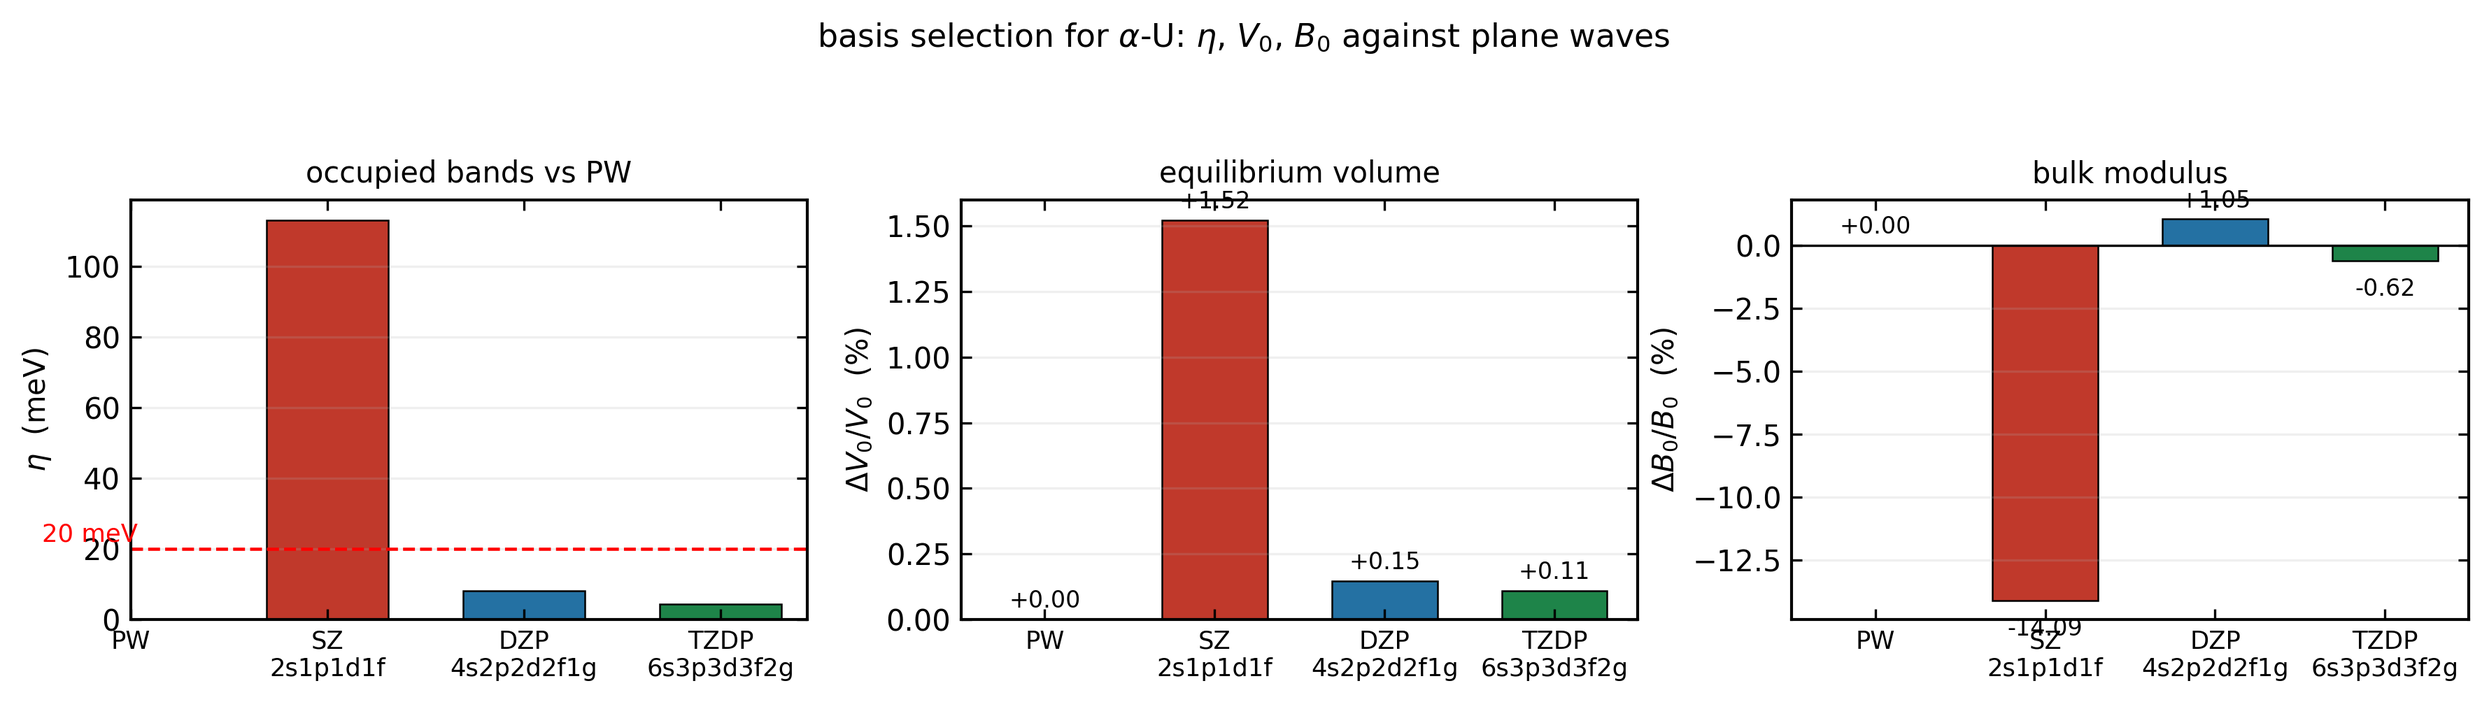
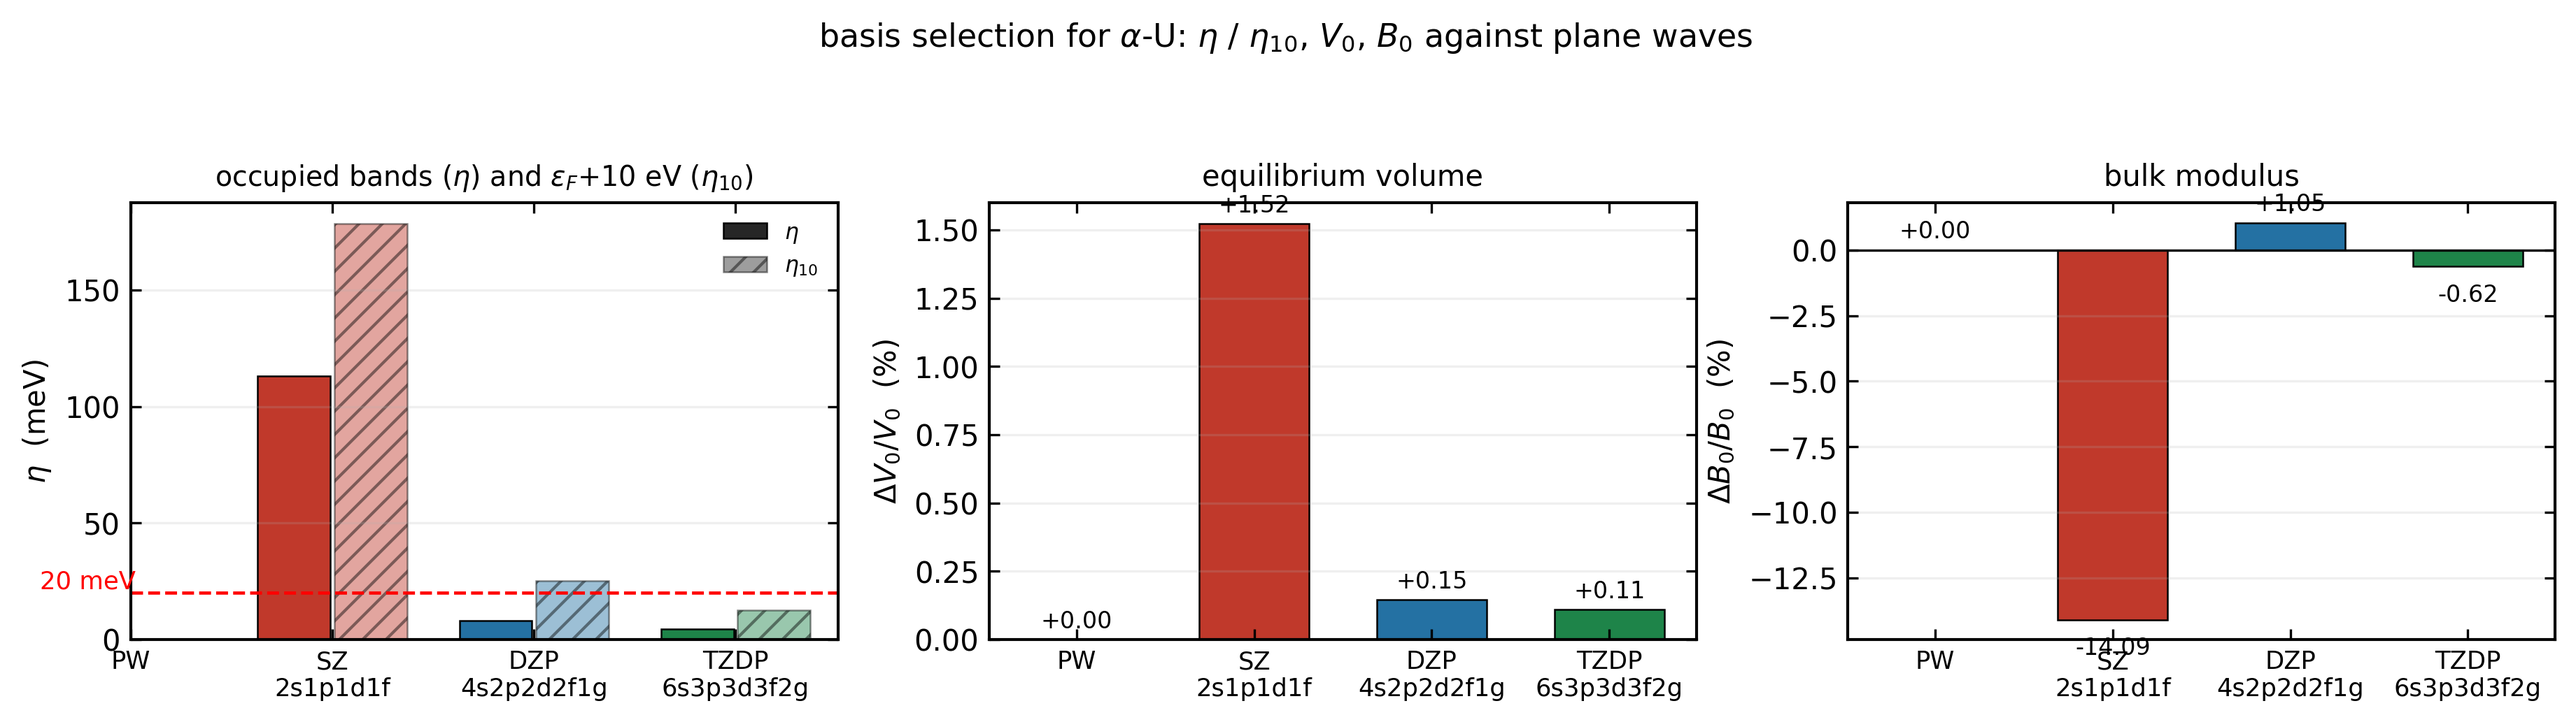
1-ecutwfc: put the figure in the stage directory; 3-eos: add eta_10
- 1-ecutwfc/plot.py wrote to demo/; it now lands next to the stage.
- 3-eos/analyze.py reads eta10_analysis.json and draws eta and eta_10 as grouped
  bars, carrying the validity flag: eta_10 is only meaningful when the spectrum
  reaches eps_F + 10 eV, which the EOS runs (80 bands, 25.3 eV above eps_F) do
  but the 38-band band-analysis runs do not.

diff --git a/3-eos/analyze.py b/3-eos/analyze.py
@@ -50,12 +50,24 @@ def read_eos() -> dict:
     return out
 
 
-def read_eta() -> dict:
+def read_eta() -> tuple[dict, dict, bool]:
+    """-> (eta, eta10, eta10_valid).
+
+    eta comes from `band_analysis.json`; eta_10 from `eta10_analysis.json`, which also
+    records whether the spectrum reaches eps_F + 10 eV.  When it does not, eta_10
+    degenerates into an unweighted RMS over all bands and must not be quoted -- the flag
+    is carried through to the figure.
+    """
+    eta, eta10, valid = {}, {}, True
     path = REPORTS / "band_analysis.json"
-    if not path.is_file():
-        return {}
-    data = json.loads(path.read_text())
-    return {r["basis"]: r["eta_meV"] for r in data.get("rows", [])}
+    if path.is_file():
+        eta = {r["basis"]: r["eta_meV"] for r in json.loads(path.read_text()).get("rows", [])}
+    path = REPORTS / "eta10_analysis.json"
+    if path.is_file():
+        data = json.loads(path.read_text())
+        eta10 = {r["basis"]: r["eta10_meV"] for r in data.get("rows", [])}
+        valid = bool(data.get("valid", True))
+    return eta, eta10, valid
 
 
 def main() -> int:
@@ -69,14 +81,14 @@ def main() -> int:
     if args.report_dir:
         REPORTS = Path(args.report_dir).resolve()
 
-    eos, eta = read_eos(), read_eta()
+    eos, (eta, eta10, eta10_ok) = read_eos(), read_eta()
     if "pw" not in eos:
         print("no PW EOS report")
         return 2
     pw = eos["pw"]
 
     print(f"{'basis':<6}{'V0/atom':>10}{'dV0 (%)':>10}{'B0 (GPa)':>11}{'dB0 (%)':>10}"
-          f"{'BP':>7}{'E0/atom':>12}{'dE (meV)':>10}{'eta (meV)':>11}")
+          f"{'BP':>7}{'E0/atom':>12}{'dE (meV)':>10}{'eta (meV)':>11}{'eta10 (meV)':>13}")
     for b in BASES:
         if b not in eos:
             continue
@@ -86,24 +98,32 @@ def main() -> int:
         e0 = e["E0"] / NATOMS
         dE = (e["E0"] - pw["E0"]) / NATOMS * 1000
         print(f"{b:<6}{e['V0_atom']:>10.4f}{dV:>+10.3f}{e['B0']:>11.2f}{dB:>+10.2f}"
-              f"{e['BP']:>7.2f}{e0:>12.4f}{dE:>10.1f}{eta.get(b, float('nan')):>11.2f}")
+              f"{e['BP']:>7.2f}{e0:>12.4f}{dE:>10.1f}{eta.get(b, float('nan')):>11.2f}"
+              f"{eta10.get(b, float('nan')):>13.2f}")
 
     plt.rcParams.update({"font.size": 10, "axes.linewidth": 1.0,
                          "xtick.direction": "in", "ytick.direction": "in",
                          "xtick.top": True, "ytick.right": True,
                          "legend.frameon": False, "savefig.dpi": 300,
                          "savefig.bbox": "tight"})
-    fig, axes = plt.subplots(1, 3, figsize=(12.0, 3.4))
+    fig, axes = plt.subplots(1, 3, figsize=(12.4, 3.5))
     shown = [b for b in BASES if b in eos]
     x = np.arange(len(shown))
 
     ax = axes[0]
-    vals = [eta.get(b, np.nan) for b in shown]
-    ax.bar(x, vals, color=[COLOUR[b] for b in shown], edgecolor="k", lw=0.6, width=0.62)
+    v_eta = [eta.get(b, np.nan) for b in shown]
+    v_10 = [eta10.get(b, np.nan) for b in shown]
+    ax.bar(x - 0.19, v_eta, width=0.36, color=[COLOUR[b] for b in shown],
+           edgecolor="k", lw=0.6, label=r"$\eta$")
+    ax.bar(x + 0.19, v_10, width=0.36, color=[COLOUR[b] for b in shown],
+           alpha=0.45, hatch="///", edgecolor="k", lw=0.6,
+           label=r"$\eta_{10}$" + ("" if eta10_ok else " (invalid)"))
     ax.axhline(20, color="red", ls="--", lw=1.1)
     ax.text(-0.45, 22, "20 meV", color="red", fontsize=8.5)
     ax.set_ylabel(r"$\eta$  (meV)")
-    ax.set_title("occupied bands vs PW", fontsize=10)
+    ax.set_title(r"occupied bands ($\eta$) and $\varepsilon_F$+10 eV ($\eta_{10}$)",
+                 fontsize=9.5)
+    ax.legend(fontsize=7.5, loc="upper right")
 
     ax = axes[1]
     vals = [100 * (eos[b]["V0_atom"] / pw["V0_atom"] - 1) for b in shown]
@@ -128,8 +148,8 @@ def main() -> int:
     for ax in axes:
         ax.set_xticks(x, [LABEL[b] for b in shown], fontsize=8.5)
         ax.grid(alpha=0.2, axis="y")
-    fig.suptitle(r"basis selection for $\alpha$-U: $\eta$, $V_0$, $B_0$ against plane waves",
-                 fontsize=11)
+    fig.suptitle(r"basis selection for $\alpha$-U: $\eta$ / $\eta_{10}$, $V_0$, $B_0$ "
+                 r"against plane waves", fontsize=11)
     fig.tight_layout(rect=(0, 0, 1, 0.93))
     out = HERE / "basis_selection.png"
     fig.savefig(out)

diff --git a/1-ecutwfc/plot.py b/1-ecutwfc/plot.py
@@ -82,7 +82,7 @@ def main() -> int:
 
     fig.suptitle("ABACUS plane-wave cutoff convergence, U2 dimers", fontsize=12)
     fig.tight_layout(rect=(0, 0, 1, 0.94))
-    out = HERE.parent / "demo" / args.out
+    out = HERE / args.out          # next to the stage, not in demo/
     fig.savefig(out, dpi=150)
     print(f"wrote {out}")
 
